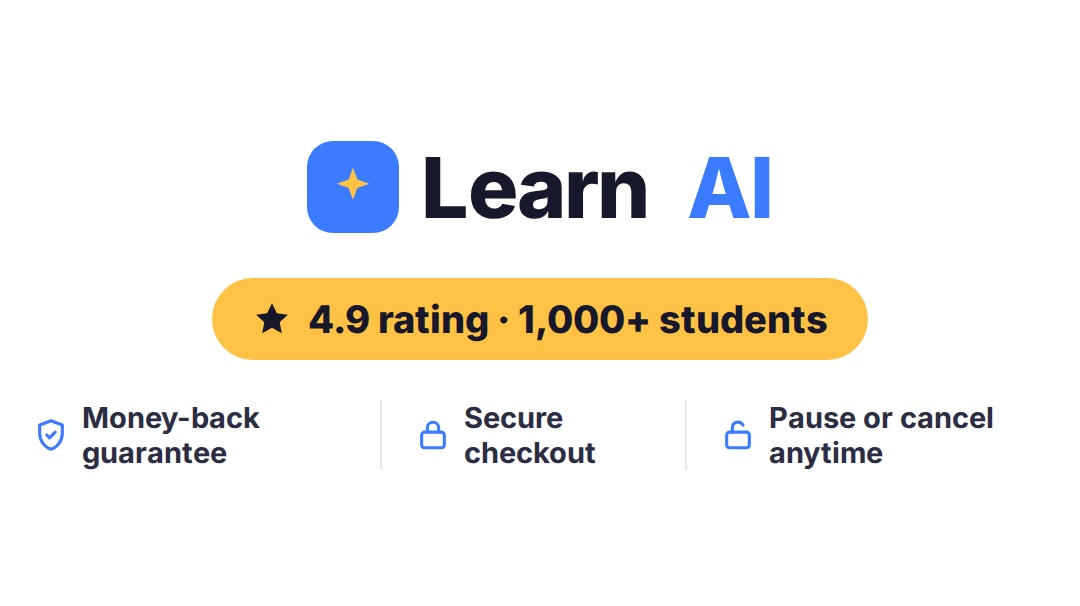
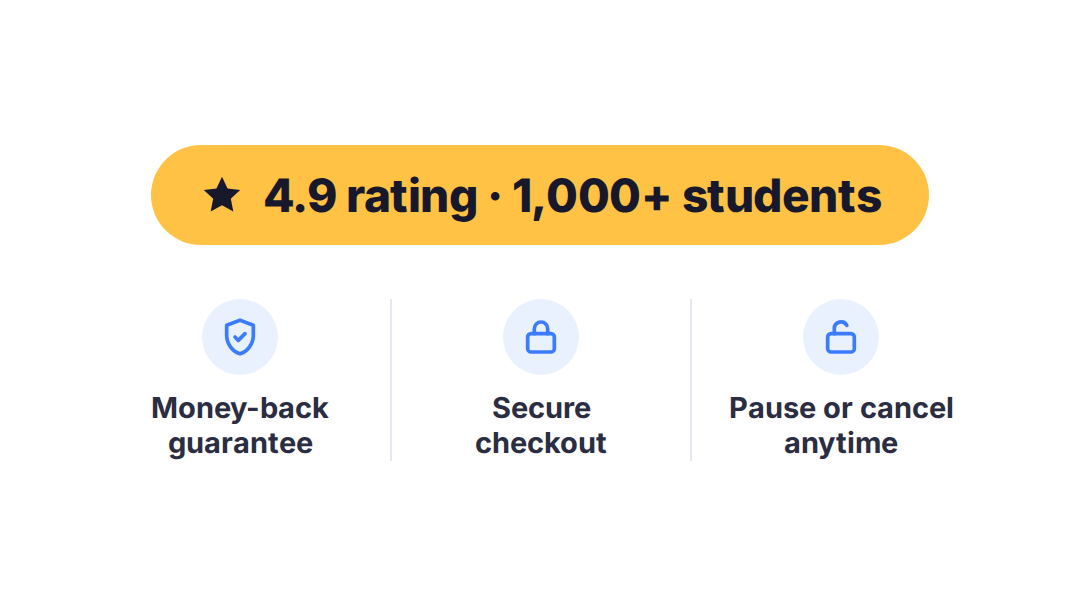
Checkout: cover without the wordmark, badges off, full-word callout, shorter benefits
The first phone review showed the cover doubling Circle's own logo and
an uneven trust row, so the cover is now the rating pill and three
evenly spaced trust columns. Badges go off, the callout reads "30-day
money-back guarantee" in full (Circle's 30-character cap rules out both
promises at once), and the seven benefits are shorter with no class
count and no "Coach". The agreement checkbox cannot be removed; its
links follow the community's legal URLs, which Brief 15 points at our
terms and privacy pages, both now dated October 6, 2026.

Claude-Session: https://claude.ai/code/session_0175zQefr8gbNhXGeym41jJw

diff --git a/site/terms.html b/site/terms.html
@@ -34,7 +34,7 @@
 <div class="wrap">
 <a class="logo" href="/"><span class="badge"><svg width="18" height="18" viewBox="0 0 100 100"><path d="M50 14l8 22 22 8-22 8-8 22-8-22-22-8 22-8z" fill="#FFC245"/></svg></span>Learn <span class="ai">AI</span></a>
 <h1>Terms of Service</h1>
-<p class="meta">Last updated September 28, 2026</p>
+<p class="meta">Last updated October 6, 2026</p>
 <h2>1. Who we are and what these terms cover</h2>
 <p>Learn AI ("Learn AI", "we", "us") provides an online education membership through joinlearnai.com and the member community at www.joinlearnai.com (together, the "Service"). These terms are a contract between you and Learn AI. By buying a membership, creating an account or using the Service, you agree to them and to our <a href="/privacy">Privacy Policy</a>. If you do not agree, do not use the Service.</p>
 <h2>2. Who may use the Service</h2>

diff --git a/site/privacy.html b/site/privacy.html
@@ -34,7 +34,7 @@
 <div class="wrap">
 <a class="logo" href="/"><span class="badge"><svg width="18" height="18" viewBox="0 0 100 100"><path d="M50 14l8 22 22 8-22 8-8 22-8-22-22-8 22-8z" fill="#FFC245"/></svg></span>Learn <span class="ai">AI</span></a>
 <h1>Privacy Policy</h1>
-<p class="meta">Last updated September 28, 2026</p>
+<p class="meta">Last updated October 6, 2026</p>
 <h2>1. What this covers</h2>
 <p>This policy explains what Learn AI ("we", "us") collects from visitors to joinlearnai.com and from members of the community at www.joinlearnai.com, why, who we share it with, and the choices you have. Our community includes minors, so we collect as little as we can and we never sell personal information.</p>
 <h2>2. What we collect</h2>

diff --git a/test/site.test.ts b/test/site.test.ts
@@ -105,6 +105,7 @@ describe("the site", () => {
     expect(html).toContain("Parent of Justen");
     const terms = await (await app.request("/terms")).text();
     expect(terms).toContain("Money-back guarantee");
+    expect(terms).toContain("Last updated October 6, 2026");
     expect(terms).not.toMatch(/no refunds/i);
     // The offer is Back to School Access at $49 against $199, with a countdown to midnight Eastern;
     // the founding-rate framing belongs to the other pages.

diff --git a/docs/CHECKOUT-COPY.md b/docs/CHECKOUT-COPY.md
@@ -11,45 +11,50 @@ cover image, title, description, up to 5 badges, up to 10 benefits, a price call
 price strikethrough, up to 10 testimonials. It does not give us an FAQ accordion, a collapsible
 benefits list, a custom header, or any custom code on the checkout page itself.
 
-## Cover image (the "header")
+## Cover image
 
 Upload `brand/assets/checkout-header.png` (1080 x 606, renders at 540 x 303). White background,
-the Learn AI wordmark, a yellow "4.9 rating · 1,000+ students" pill, and a trust row:
-Money-back guarantee · Secure checkout · Pause or cancel anytime. This is the closest Circle gets
-to a brand header with trust badges, because the community logo at the very top cannot be changed.
+a yellow "4.9 rating · 1,000+ students" pill, and three evenly spaced trust columns with icons:
+Money-back guarantee · Secure checkout · Pause or cancel anytime. No wordmark: Circle already
+shows the community logo directly above the cover, so a logo in the image doubled up.
 
 ## Product details
 
 Title (display name, do not change: it regenerates the checkout slug): Back in School Access
 Description: empty. If Circle insists: Everything your kid needs to learn AI and build with it.
 
-## Badges (Show badges on, three, custom icons from `brand/assets/checkout-icons/`)
+## Badges
 
-1. `icon-shield.png` Money-back guarantee
-2. `icon-lock.png` Secure checkout by Stripe
-3. `icon-unlock.png` Pause or cancel anytime
+Off. The cover carries the three trust points; badges repeated them under the title.
 
-## Benefits (Show benefits on, section title "What's included", title then description)
+## Benefits (Show benefits on, section title "What's included", title then one short line)
 
-1. `icon-tools.png` **AI basics to building games, apps and chatbots** — 17 classes, from what AI is to real projects.
+1. `icon-tools.png` **From AI basics to real projects** — Games, apps, chatbots and more.
 2. `icon-calendar.png` **New classes every week** — Members vote on what comes next.
-3. `icon-cap.png` **Instructors from Microsoft, Google, Meta and IBM** — The same instructors adults learn from.
-4. `icon-chat.png` **Live answers to questions** — Coach answers fast, and a real person reads every thread.
-5. `icon-shield.png` **Money-back guarantee** — Not what we described? Email within 30 days of your first payment for a full refund.
+3. `icon-cap.png` **Instructors from Microsoft, Google, Meta and IBM** — Taught by working experts.
+4. `icon-chat.png` **Live answers to questions** — Fast help, and a real person reads every thread.
+5. `icon-shield.png` **30-day money-back guarantee** — Not what we described? Full refund.
 6. `icon-unlock.png` **Pause or cancel anytime** — From your account, or by email.
-7. `icon-rocket.png` **Skills they keep for life** — For school, for work and for whatever comes next.
+7. `icon-rocket.png` **Skills they keep for life** — For school, work and whatever comes next.
 
-Circle caps titles at 50 characters and shows a placeholder when a description is blank, so every
-line above has both.
+Circle sets the type: titles and descriptions render at the sizes Circle chooses, so the only
+lever for a bolder title is a shorter description, which these are. Titles are under the 50-character cap.
 
 ## Price details
 
-- Reduced price on, original price $199, actual price $49. (Only honest while $199 is the listed
-  standard price; see the note at the end.)
-- Callout, 30-character limit: `Money back · pause or cancel` (28). Colour #FFC245, Highlight on.
-- Countdown price lock: off. Circle's countdown is a per-visitor timer that ends the reduced price
-  for that visitor when it expires, which would send a returning parent to $199. The landing page
-  already carries the urgency. Turn it on only with a fixed end date and a real price change.
+- Reduced price on, original price $199, actual price $49.
+- Callout, 30-character hard limit: `30-day money-back guarantee` (27). "Money-back guarantee ·
+  Pause or cancel anytime" is 46 characters and will not save. Pause or cancel is on the cover,
+  in the benefits and in the fine print, so the callout carries the guarantee in full.
+  Colour #FFC245, Highlight on.
+- Countdown price lock: off.
+
+## Terms and privacy links
+
+Circle's checkout always shows the "I agree to the terms of service and have read the privacy
+policy" checkbox; it cannot be removed. The links go to whatever Circle Settings has under the
+legal URLs. Until set, they go to Circle's own documents (last updated December 1, 2025). Set
+them to https://joinlearnai.com/terms and https://joinlearnai.com/privacy (Brief 15).
 
 ## Testimonials (Show testimonials on, five, in this order)
 

diff --git a/docs/COWORK-BRIEFS.md b/docs/COWORK-BRIEFS.md
@@ -711,3 +711,52 @@ https://www.joinlearnai.com/checkout/back-in-school-access. Confirm, top to bott
 image with the rating pill and trust row, the title, the three badges, the price with $199 struck
 and the yellow callout, the payment form, "What's included" with seven lines, and the five reviews
 below. Screenshot the whole page. STOP.
+
+## Brief 15: Checkout fixes (new cover, badges off, callout, shorter benefits, legal links)
+
+Context for me, not for the other Claude: fixes from the first phone review of the Brief 14
+checkout. The cover doubled the logo and its trust row was unevenly spaced, so there is a new
+cover without the wordmark. Badges go off (the cover carries them). The callout spells the
+guarantee out in full. Benefits are shorter. The terms checkbox linked to Circle's default
+documents, so the community's legal URLs get set to our pages. Source of truth:
+`docs/CHECKOUT-COPY.md`. File to hand over: `brand/assets/checkout-header.png` (replaces the
+previous one). Chrome signed in to www.joinlearnai.com as admin.
+
+You are editing the checkout page of one paywall and two community settings in my Circle
+community, working in my signed-in Chrome. Do not change the paywall's display name, its Checkout
+URL slug, the price, the access settings, or the Tracking tab. Screenshot after each block and
+report what you did, including any field that refused a value and what you used instead.
+
+Block 1, cover. Payments → Paywalls → "Back in School Access" → Checkout tab → Customize →
+"Paywall cover image": remove the current image and upload the new checkout-header.png. Save.
+
+Block 2, badges. In "Badges", turn "Show badges" off. Save.
+
+Block 3, benefits. In "Benefits", edit the seven so they read exactly, in this order (keep the
+icon already on each; the title is first, the description second):
+  1. From AI basics to real projects — Games, apps, chatbots and more.
+  2. New classes every week — Members vote on what comes next.
+  3. Instructors from Microsoft, Google, Meta and IBM — Taught by working experts.
+  4. Live answers to questions — Fast help, and a real person reads every thread.
+  5. 30-day money-back guarantee — Not what we described? Full refund.
+  6. Pause or cancel anytime — From your account, or by email.
+  7. Skills they keep for life — For school, work and whatever comes next.
+Save.
+
+Block 4, callout. In "Price details", on the $49 price option, change the callout text to
+exactly: 30-day money-back guarantee
+(27 characters). Keep #FFC245 and Highlight on. Keep Reduced price on at 199. Save.
+
+Block 5, legal links. Leave the paywall. Open the community's admin Settings and find the legal
+or general section that holds "Terms of Service URL" and "Privacy Policy URL" (Circle usually
+puts them under Settings → General, or Settings → Legal). Set Terms of Service URL to
+https://joinlearnai.com/terms and Privacy Policy URL to https://joinlearnai.com/privacy. Save.
+If you cannot find these fields, tell me exactly which settings pages you looked at and stop.
+
+Block 6, check. In a private window, phone-sized, open
+https://www.joinlearnai.com/checkout/back-in-school-access. Confirm: one Learn AI logo at the
+top (not two), the cover with the rating pill and the three trust columns, the title, the price
+with $199 struck and the yellow callout reading "30-day money-back guarantee", no badges, the
+payment form, "What's included" with the seven shortened lines, the five reviews. Tap the "terms
+of service" link in the agreement line and confirm it opens joinlearnai.com/terms with "Last
+updated October 6, 2026"; do the same for "privacy policy". Screenshot each. STOP.
